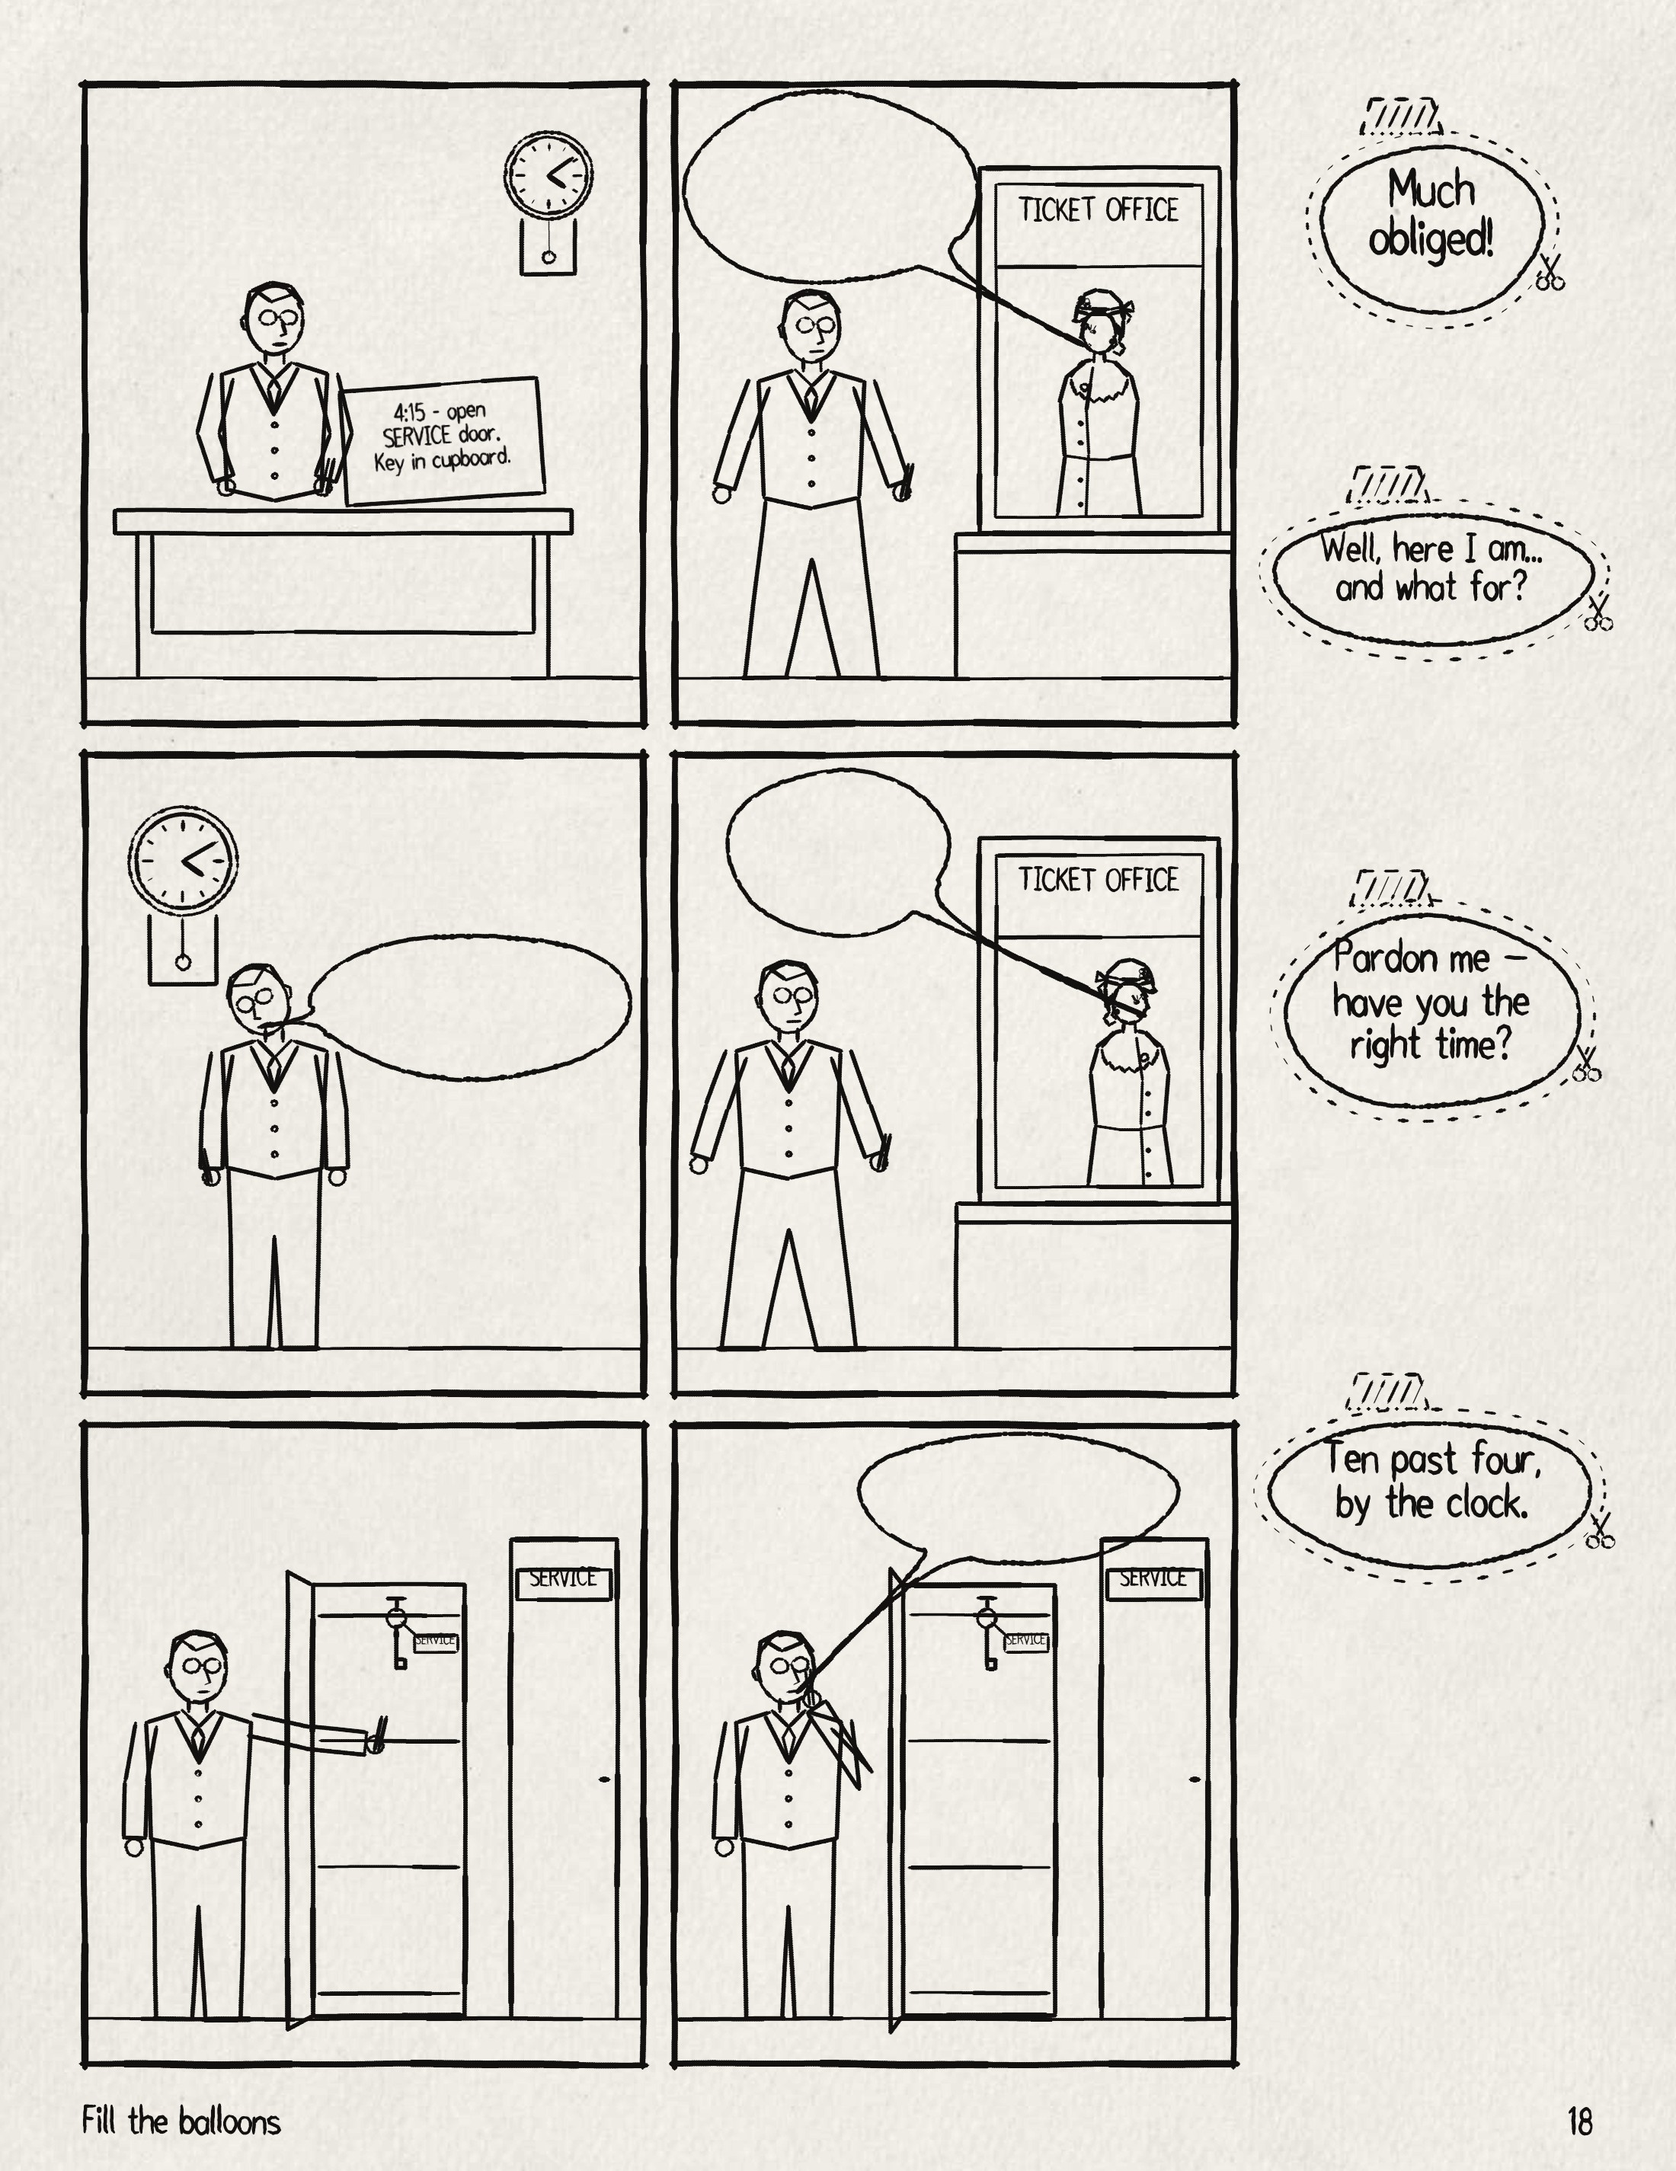
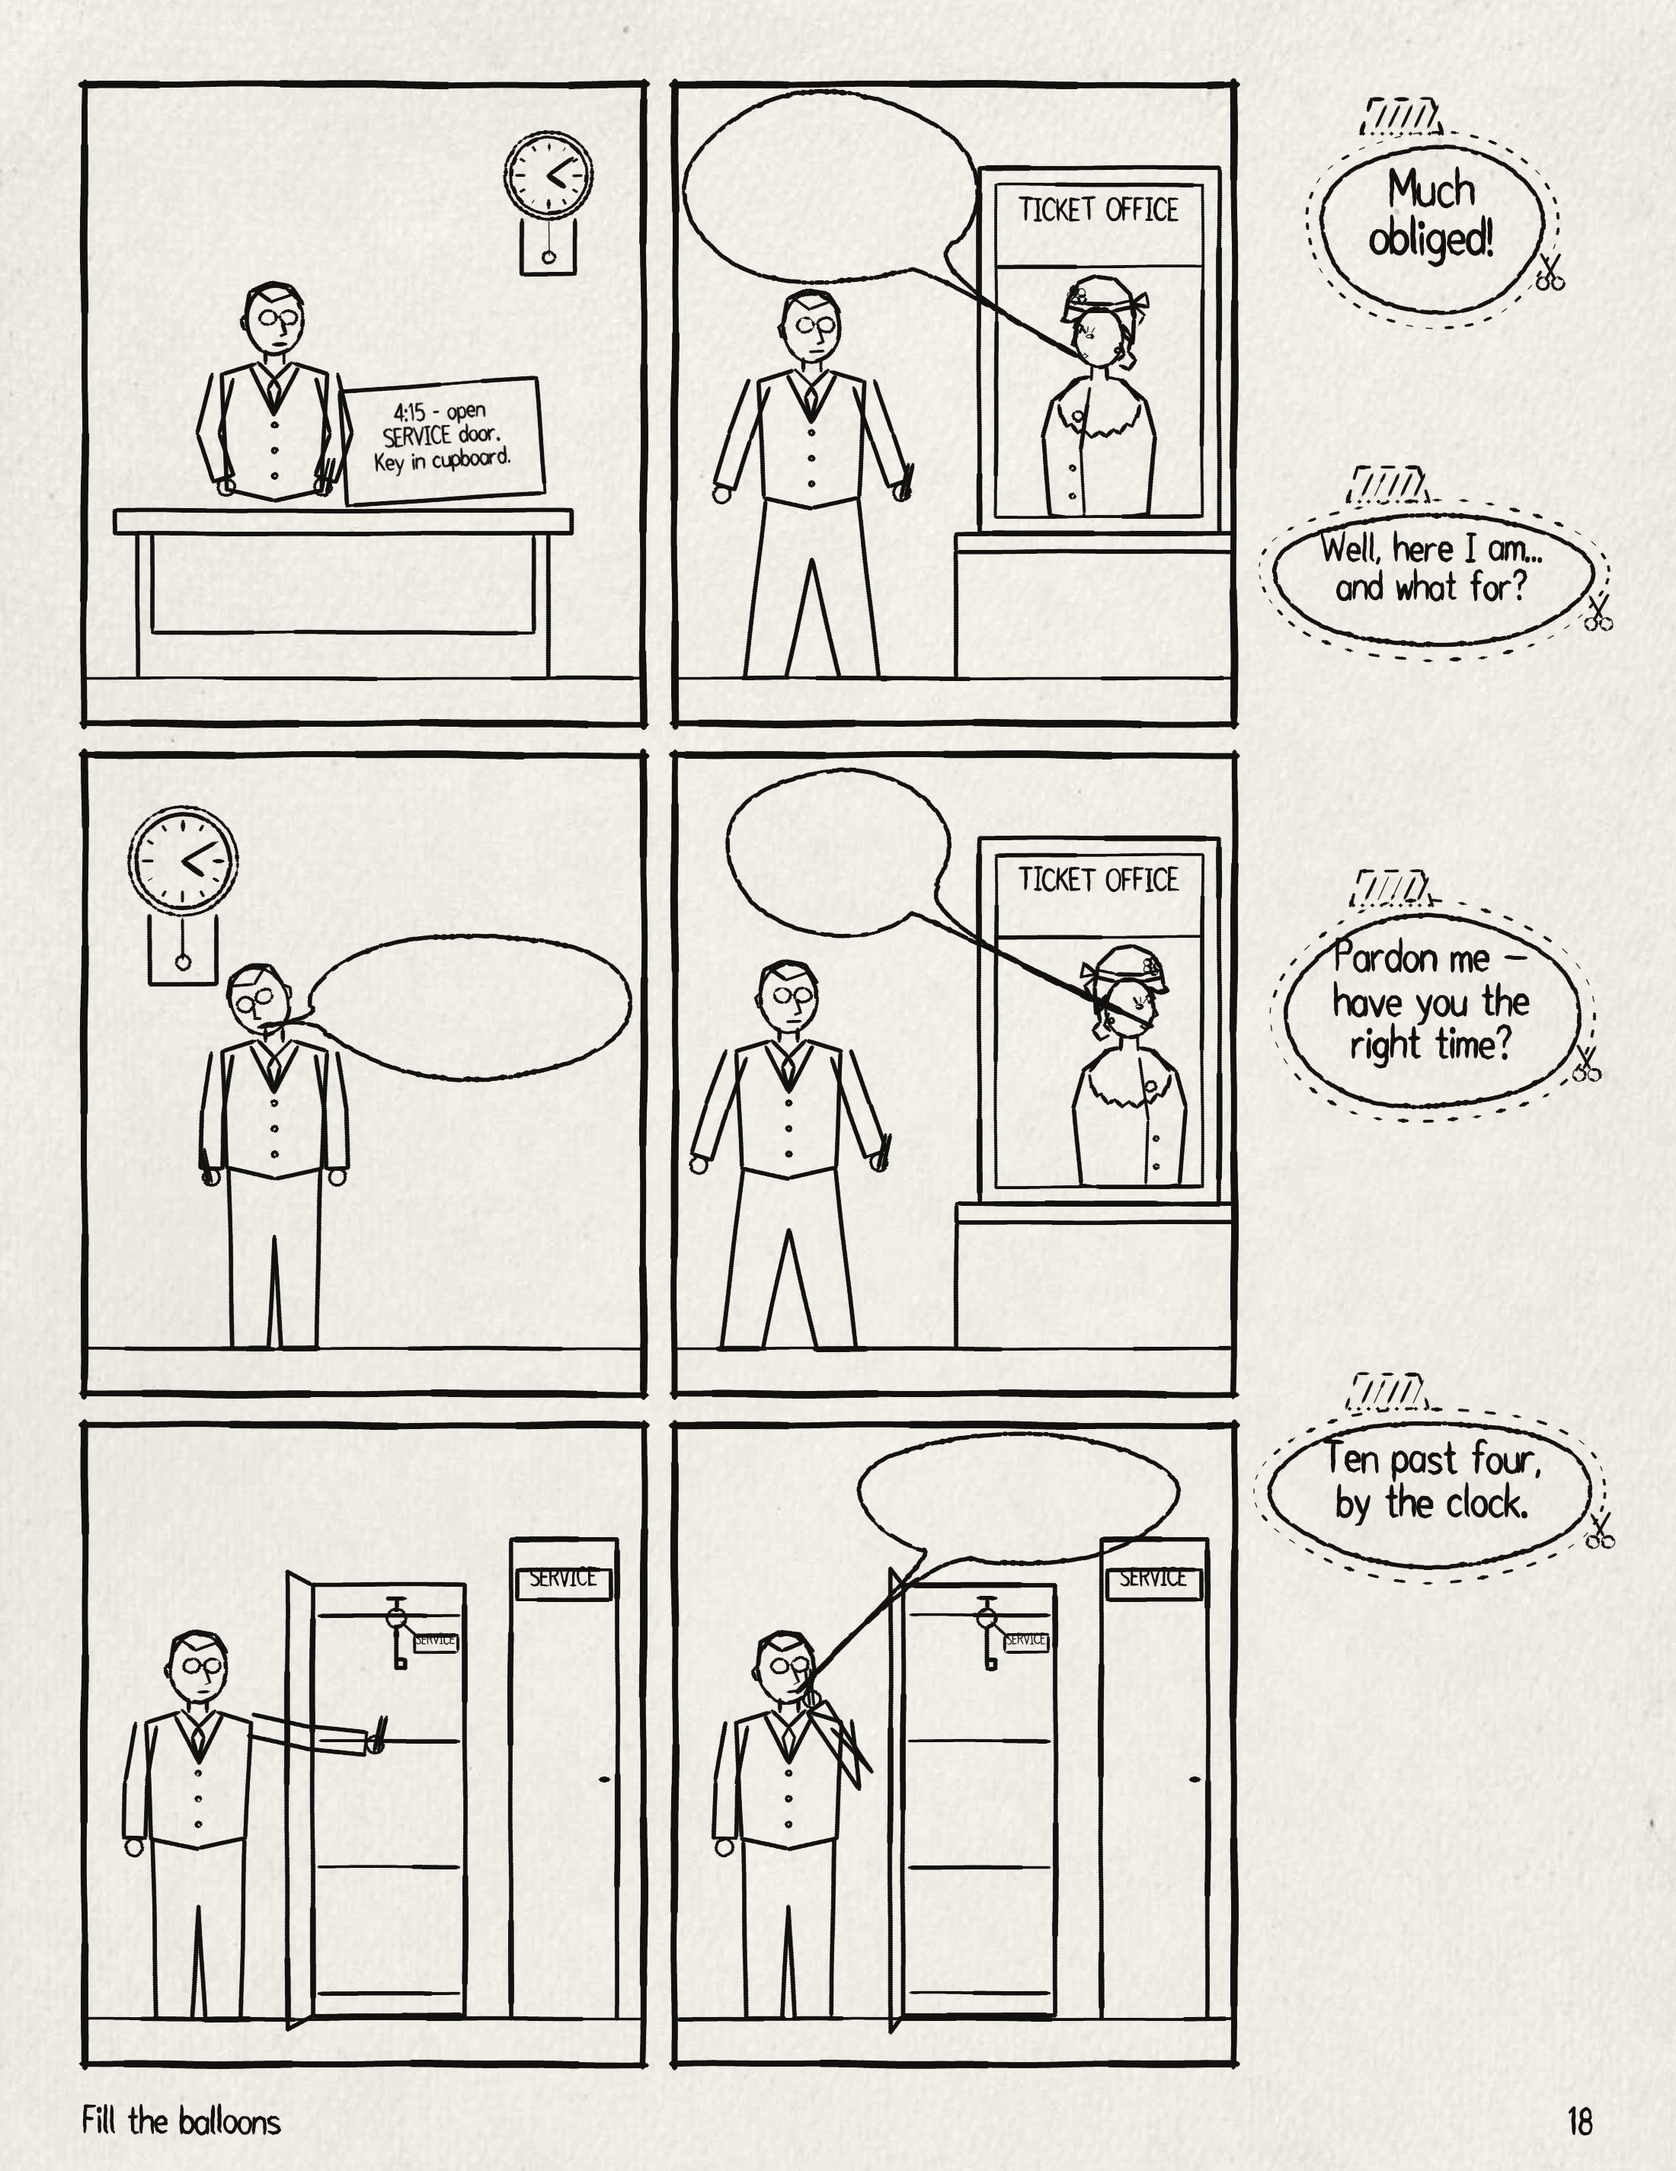
99 ways: batches in progress (interim pages and records)
Claude-Session: https://claude.ai/code/session_012XUjiSZ2P4CmYc3BGshy5Q

Changed region(s): [[0.5564, 0.0937, 0.7109, 0.2498], [0.5873, 0.4372, 0.7109, 0.5621], [0.5564, 0.406, 0.5873, 0.4372]]

diff --git a/paeleo/scion/oulipo/films/swarm/99-ways/build/p18_fill_the_balloons.py b/paeleo/scion/oulipo/films/swarm/99-ways/build/p18_fill_the_balloons.py
@@ -344,7 +344,7 @@ def panel(n, ground):
         wx0, wx1 = 400, 715
         if n != 3:      # panel 3 turns to the clock; the window is out of shot to the right
             sx = (wx0 + wx1) / 2 + (40 if n == 4 else 0)
-            st_mouth = stranger(cv, (sx, 590), 0.64, f=(1 if n == 4 else -1), seed=1860 + n)
+            st_mouth = stranger(cv, (sx, 712), 0.92, f=(1 if n == 4 else -1), seed=1860 + n)   # seen to the waist; the counter hides the rest
             cv[590 - 22:FL - 2, wx0:wx1] = ground[590 - 22:FL - 2, wx0:wx1]          # the counter hides her below the glass
             window(cv, wx0, 110, wx1, 590, 1870 + n)
             pen(cv, [(wx0 - 30, 614), (wx0 - 30, FL)], 4, 1875 + n)
